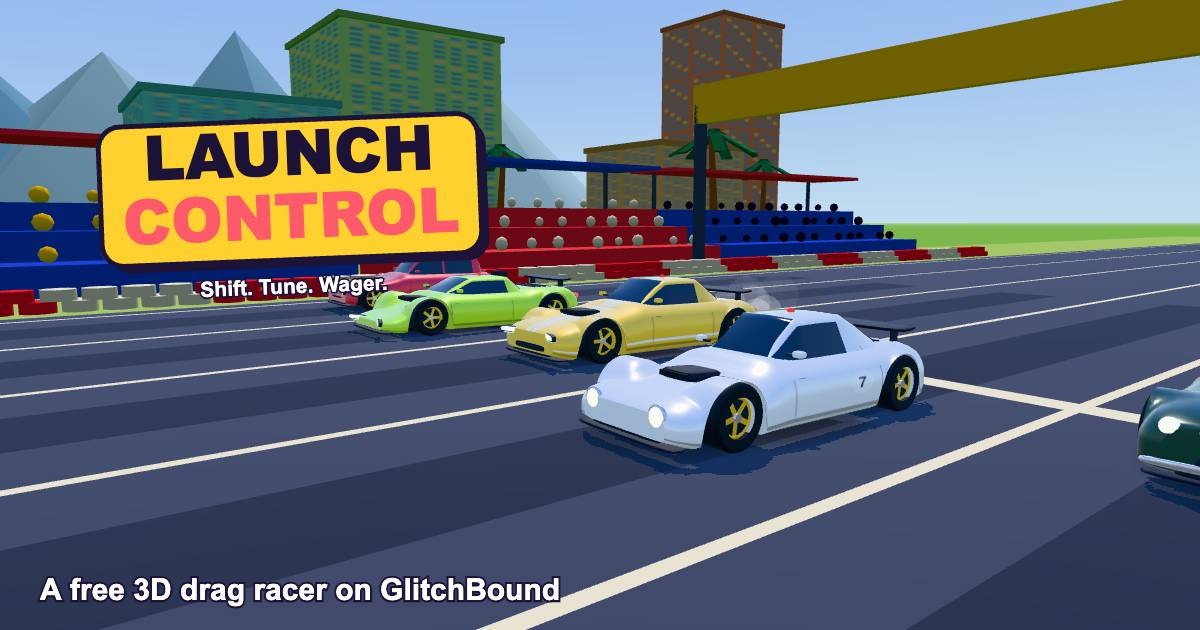
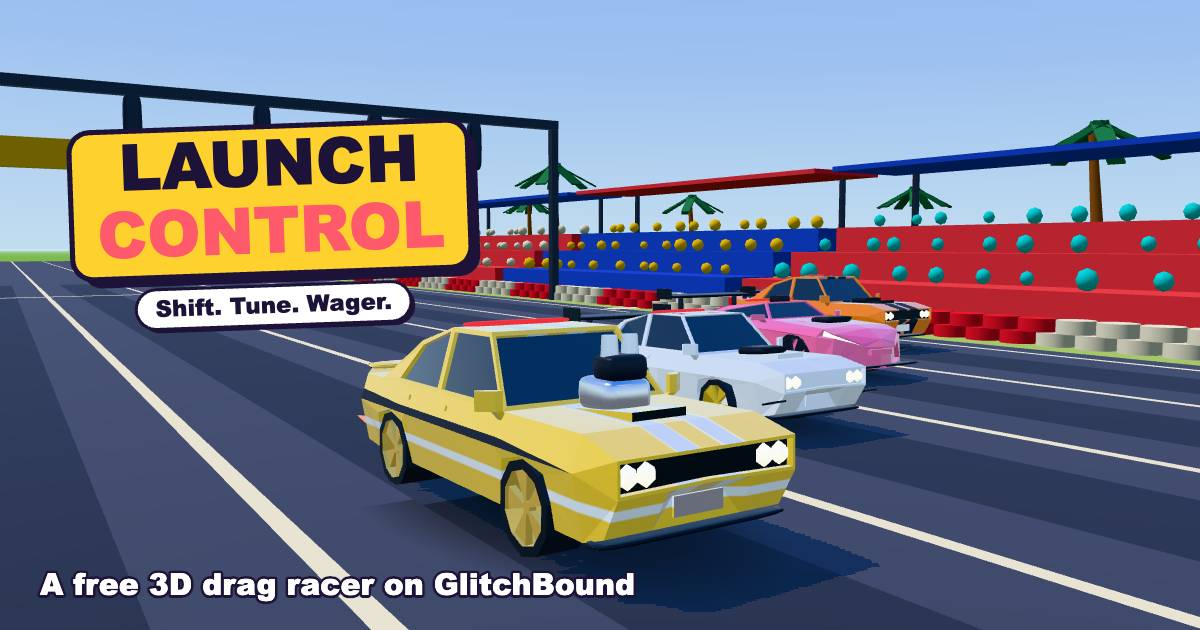
GlitchBound: Launch Control artwork with the new car models
- tile, wide banner (also the home banner) and social card re-rendered from the game's 3D
  scene: a supercharged yellow muscle car launching beside three rivals
- catalog text and design notes: 43 cars on 16 CC0 bodies, the new files explained

diff --git a/glitchbound/src/catalog/games.ts b/glitchbound/src/catalog/games.ts
@@ -253,10 +253,10 @@ export const GAMES: GameEntry[] = [
     slug: 'launch-control',
     wallet: true,
     title: 'Launch Control',
-    tagline: 'Five-car 3D drag races: nail every shift, tune 40 cars, wager your winnings.',
+    tagline: 'Five-car 3D drag races: nail every shift, tune 43 cars, wager your winnings.',
     description:
       'A strategic quarter-mile drag racer in glossy 3D, seen from behind your car. Launch on green, then hit every shift in a green zone that moves each gear, against four rivals in cars like yours. ' +
-      'Climb a ladder of 40 rivals in five divisions, wager earned cash on forecast odds, and tune six separate parts on 40 original cars in the garage: engine, transmission, suspension, tyres, aero and looks, each visible on the car, each moving several stats, each wearing out. ' +
+      'Climb a ladder of 40 rivals in five divisions, wager earned cash on forecast odds, and tune six separate parts on 43 original cars in the parts shop: engine, transmission, suspension, tyres, aero and looks, each visible on the car, each moving several stats, each wearing out. ' +
       'Everyone gets the same loaner and the same rivals in Today’s Showdown; friends race your ghost in challenges. No real money anywhere.',
     categories: ['racing', 'strategy'],
     moods: ['action', 'quick'],
@@ -267,7 +267,7 @@ export const GAMES: GameEntry[] = [
     art: {
       tile: '/games/launch-control/tile.webp',
       wide: '/games/launch-control/wide.webp',
-      alt: 'A yellow 3D muscle car launching off the line on a sunny seaside drag strip beside four rivals, with the Launch Control logo',
+      alt: 'A yellow 3D muscle car with a supercharger launching off the line beside three rivals on a sunny drag strip, with the Launch Control logo',
       bg: '#2f8dff',
     },
     runtime: { kind: 'module' },
@@ -287,7 +287,7 @@ export const GAMES: GameEntry[] = [
     highlights: [
       'One input: tap at green to launch, then shift in a green zone that sits somewhere new in every gear. Perfect launches and shifts win races',
       'Every race is five cars: you and four rivals in cars tuned like yours; the named ladder rival is one of them',
-      '40 original cars in six tiers, shaped after the real thing from a supermini to a hypercar, in glossy clearcoat 3D',
+      '43 original cars in six tiers, built on real 3D car models from a supermini to a hypercar, each with its own proportions',
       'Six separate parts with eight levels each, each visible on the car and each moving several stats; they wear out and can fail when neglected',
       'Materials (scrap, alloy, carbon, chips, rubber) gate the higher levels; cash and materials come only from racing',
       'A 40-rival ladder in five divisions with purses by finishing position, first-win bonuses and division finals',

diff --git a/glitchbound/src/games/launch-control/DESIGN.md b/glitchbound/src/games/launch-control/DESIGN.md
@@ -47,7 +47,7 @@ each a driver skill that only loses time from there. Fair, varied, never a walko
 
 ## The garage
 
-40 original cars with silhouettes after familiar real shapes (invented makers and names). Six separate parts, each
+43 original cars (invented makers and names) on 16 CC0 low-poly bodies, each car with its own size and shape tweaks (models.ts, modelcar.ts; credits in CREDITS.md). Six separate parts, each
 with eight levels and its own condition, each moving several numbers:
 
 | Part | Each level | Visible on the car |
@@ -73,7 +73,10 @@ mid-race; repairs cost cash. Cosmetics: helmets, suits, paints, liveries, wheels
 | `economy.ts` | ladder, bots, purses by position, Monte-Carlo odds, materials, sponsor, crate, daily loaner | yes |
 | `cosmetics.ts` / `envs.ts` | cosmetics for sale; the four strips | yes |
 | `storage.ts` | the local save (validated) | DOM |
-| `scene3d.ts` | Three.js: lofted cars (rounded cross-sections, flat capped nose and tail, fender arches, glass cabin with painted pillars, lamps snapped to the surface), sky reflections, worlds merged per material (~250 draw calls for a race), one shared stage, a thumbnail queue | WebGL |
+| `scene3d.ts` | Three.js: the stage (race chase camera, garage turntable with a camera focus per part, docking into pop-ups), sky reflections, worlds merged per material, a thumbnail queue; the old lofted car builder stays as a fallback when a model cannot load | WebGL |
+| `models.ts` | the 16 CC0 bodies: which body and proportions each car uses, shape tweaks (chopped roof, wide hips, long hood), loading and caching | WebGL |
+| `modelcar.ts` | builds a car from a body: repaint and livery mapping, spinning wheels sized by the tyre upgrade, upgrade parts snapped to the body by raycasts | WebGL |
+| `mats.ts` | shared materials, mesh helpers and static-mesh merging | WebGL |
 | `hud.ts` | the driver portrait | DOM |
 | `RaceScreen.tsx` | the race on the shared stage: a rev strip and gauge with this gear's window, launch and shift pop-ups, a zone cue, stray-tap guard, pixel-ratio guard, rotate nudge | React |
 | `Game.tsx` / `ui.tsx` / `Game.css` | hub, rivals, setup, result, garage, dealer, daily, ladder, help | React |
